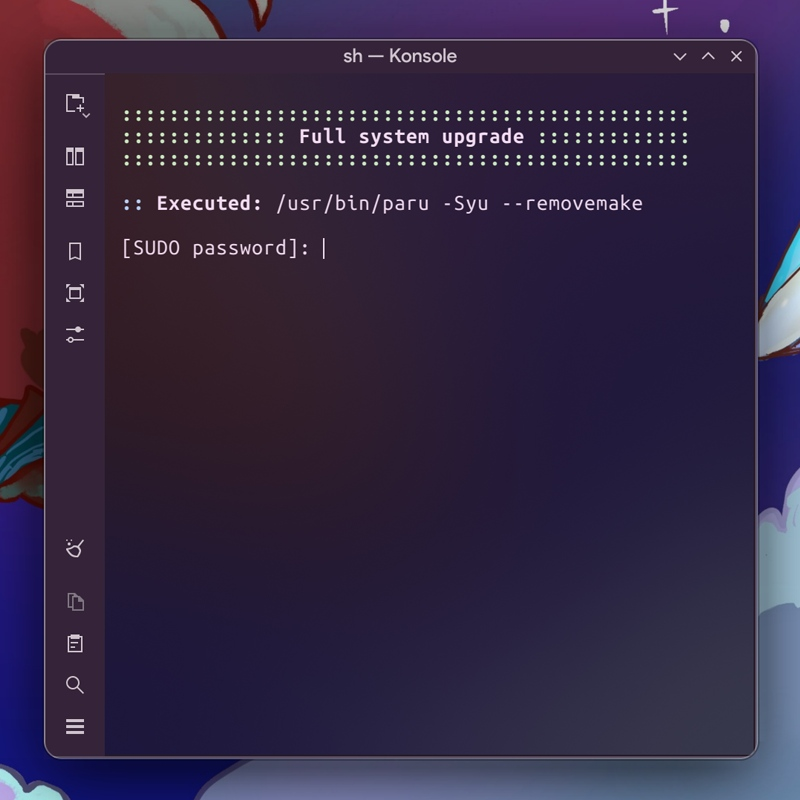
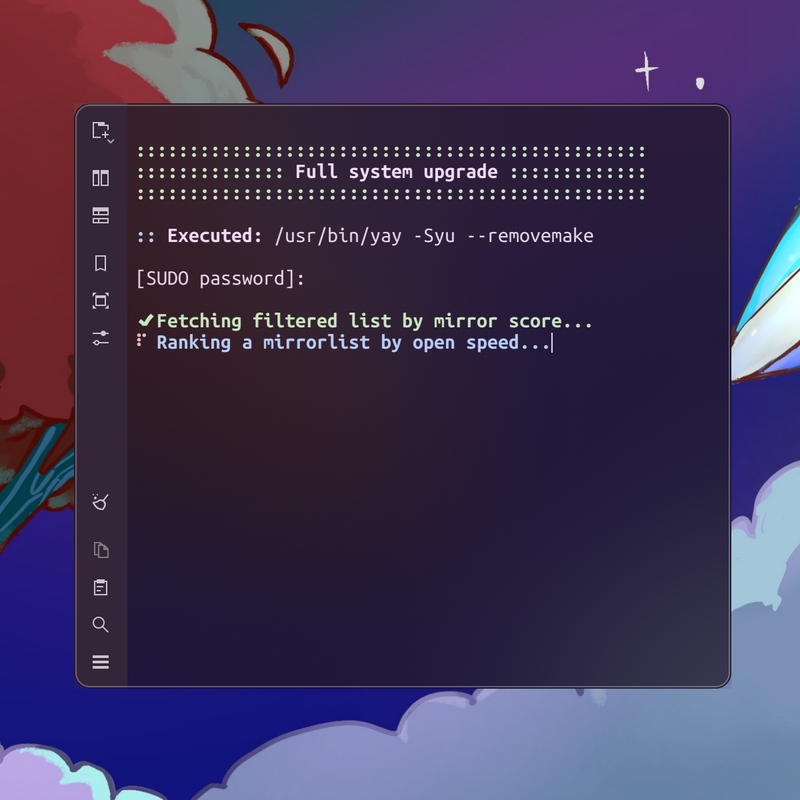
Added mirrorlist generator

diff --git a/package/contents/ui/ConfigMirrors.qml b/package/contents/ui/ConfigMirrors.qml
@@ -1,0 +1,250 @@
+import QtQuick
+import QtQuick.Layouts
+import QtQuick.Controls
+import org.kde.kirigami as Kirigami
+import org.kde.kcmutils
+
+SimpleKCM {
+    id: root
+
+    property var countryList: []
+    property string cfg_dynamicUrl: plasmoid.configuration.dynamicUrl
+    property alias cfg_mirrorCount: mirrorCount.value
+
+    function updateUrl() {
+        var params = ""
+        if (http.checked) params += "&protocol=http"
+        if (https.checked) params += "&protocol=https"
+        if (ipv4.checked) params += "&ip_version=4"
+        if (ipv6.checked) params += "&ip_version=6"
+        if (mirrorstatus.checked) params += "&use_mirror_status=on"
+
+        for (var i = 0; i < countryList.length; i++) {
+            params += "&country=" + countryList[i]
+        }
+
+        var baseUrl = "https://archlinux.org/mirrorlist/?"
+        cfg_dynamicUrl = baseUrl + params.substring(1)
+    }
+
+    Component.onCompleted: {
+        if(cfg_dynamicUrl) {
+            var urlParams = plasmoid.configuration.dynamicUrl.split("?")[1].split("&")
+
+            for (var i = 0; i < urlParams.length; i++) {
+                var param = urlParams[i]
+                if (param.includes("use_mirror_status=on")) mirrorstatus.checked = true
+                if (param.includes("protocol=http")) http.checked = true
+                if (param.includes("protocol=https")) https.checked = true
+                if (param.includes("ip_version=4")) ipv4.checked = true
+                if (param.includes("ip_version=6")) ipv6.checked = true
+            }
+        }
+    }
+
+    Kirigami.FormLayout {
+        id: page
+
+        Kirigami.Separator {
+            Kirigami.FormData.label: i18n("Pacman Mirrorlist Generator")
+            Kirigami.FormData.isSection: true
+        }
+
+        Kirigami.UrlButton {
+            horizontalAlignment: Text.AlignHCenter
+            url: "https://archlinux.org/mirrorlist"
+            text: "archlinux.org"
+            font.pointSize: Kirigami.Theme.smallFont.pointSize
+            color: Kirigami.Theme.positiveTextColor
+        }
+
+
+        Item {
+            Kirigami.FormData.isSection: true
+        }
+
+        CheckBox {
+            Kirigami.FormData.label: i18n("Protocol:")
+            id: http
+            text: "http"
+            onClicked: updateUrl()
+            
+        }
+
+        CheckBox {
+            id: https
+            text: "https"
+            onClicked: updateUrl()
+        }
+
+        Item {
+            Kirigami.FormData.isSection: true
+        }
+
+        CheckBox {
+            Kirigami.FormData.label: i18n("IP version:")
+            id: ipv4
+            text: "IPv4"
+            onClicked: updateUrl()
+        }
+
+        CheckBox {
+            id: ipv6
+            text: "IPv6"
+            onClicked: updateUrl()
+        }
+
+        Item {
+            Kirigami.FormData.isSection: true
+        }
+
+        CheckBox {
+            Kirigami.FormData.label: i18n("Mirror status:")
+            id: mirrorstatus
+            text: "Use mirror status"
+            onClicked: updateUrl()
+        }
+
+        Item {
+            Kirigami.FormData.isSection: true
+        }
+
+        SpinBox {
+            Kirigami.FormData.label: i18n("Number output:")
+            id: mirrorCount
+            from: 1
+            to: 10
+            stepSize: 1
+            value: mirrorCount
+        }
+
+        Item {
+            Kirigami.FormData.isSection: true
+        }
+
+        Label {
+            Kirigami.FormData.label: i18n("Country:")
+
+            text: {
+                var matchResult = cfg_dynamicUrl.match(/country=([A-Z]+)/g)
+                if (matchResult !== null) {
+                    var countries = matchResult.map(str => str.split("=")[1]).join(", ")
+                    return countries
+                } else {
+                    return "<font color='red'>No one selected</font>";
+                }
+            }
+        }
+
+        ScrollView {
+            height: 120
+
+            Column {
+                Repeater {
+                    id: repeater
+                    model: ListModel {
+                        ListElement { text: "Australia"; code: "AU"; checked: false }
+                        ListElement { text: "Austria"; code: "AT"; checked: false }
+                        ListElement { text: "Azerbaijan"; code: "AZ"; checked: false }
+                        ListElement { text: "Bangladesh"; code: "BD"; checked: false }
+                        ListElement { text: "Belarus"; code: "BY"; checked: false }
+                        ListElement { text: "Belgium"; code: "BE"; checked: false }
+                        ListElement { text: "Bosnia and Herzegovina"; code: "BA"; checked: false }
+                        ListElement { text: "Brazil"; code: "BR"; checked: false }
+                        ListElement { text: "Bulgaria"; code: "BG"; checked: false }
+                        ListElement { text: "Cambodia"; code: "KH"; checked: false }
+                        ListElement { text: "Canada"; code: "CA"; checked: false }
+                        ListElement { text: "Chile"; code: "CL"; checked: false }
+                        ListElement { text: "China"; code: "CN"; checked: false }
+                        ListElement { text: "Colombia"; code: "CO"; checked: false }
+                        ListElement { text: "Croatia"; code: "HR"; checked: false }
+                        ListElement { text: "Czech Republic"; code: "CZ"; checked: false }
+                        ListElement { text: "Denmark"; code: "DK"; checked: false }
+                        ListElement { text: "Ecuador"; code: "EC"; checked: false }
+                        ListElement { text: "Estonia"; code: "EE"; checked: false }
+                        ListElement { text: "Finland"; code: "FI"; checked: false }
+                        ListElement { text: "France"; code: "FR"; checked: false }
+                        ListElement { text: "Georgia"; code: "GE"; checked: false }
+                        ListElement { text: "Germany"; code: "DE"; checked: false }
+                        ListElement { text: "Greece"; code: "GR"; checked: false }
+                        ListElement { text: "Hong Kong"; code: "HK"; checked: false }
+                        ListElement { text: "Hungary"; code: "HU"; checked: false }
+                        ListElement { text: "Iceland"; code: "IS"; checked: false }
+                        ListElement { text: "India"; code: "IN"; checked: false }
+                        ListElement { text: "Indonesia"; code: "ID"; checked: false }
+                        ListElement { text: "Iran"; code: "IR"; checked: false }
+                        ListElement { text: "Israel"; code: "IL"; checked: false }
+                        ListElement { text: "Italy"; code: "IT"; checked: false }
+                        ListElement { text: "Japan"; code: "JP"; checked: false }
+                        ListElement { text: "Kazakhstan"; code: "KZ"; checked: false }
+                        ListElement { text: "Kenya"; code: "KE"; checked: false }
+                        ListElement { text: "Latvia"; code: "LV"; checked: false }
+                        ListElement { text: "Lithuania"; code: "LT"; checked: false }
+                        ListElement { text: "Luxembourg"; code: "LU"; checked: false }
+                        ListElement { text: "Mauritius"; code: "MU"; checked: false }
+                        ListElement { text: "Mexico"; code: "MX"; checked: false }
+                        ListElement { text: "Moldova"; code: "MD"; checked: false }
+                        ListElement { text: "Monaco"; code: "MC"; checked: false }
+                        ListElement { text: "Netherlands"; code: "NL"; checked: false }
+                        ListElement { text: "New Caledonia"; code: "NC"; checked: false }
+                        ListElement { text: "New Zealand"; code: "NZ"; checked: false }
+                        ListElement { text: "North Macedonia"; code: "MK"; checked: false }
+                        ListElement { text: "Norway"; code: "NO"; checked: false }
+                        ListElement { text: "Paraguay"; code: "PY"; checked: false }
+                        ListElement { text: "Poland"; code: "PL"; checked: false }
+                        ListElement { text: "Portugal"; code: "PT"; checked: false }
+                        ListElement { text: "Romania"; code: "RO"; checked: false }
+                        ListElement { text: "Russia"; code: "RU"; checked: false }
+                        ListElement { text: "Réunion"; code: "RE"; checked: false }
+                        ListElement { text: "Serbia"; code: "RS"; checked: false }
+                        ListElement { text: "Singapore"; code: "SG"; checked: false }
+                        ListElement { text: "Slovakia"; code: "SK"; checked: false }
+                        ListElement { text: "Slovenia"; code: "SI"; checked: false }
+                        ListElement { text: "South Africa"; code: "ZA"; checked: false }
+                        ListElement { text: "South Korea"; code: "KR"; checked: false }
+                        ListElement { text: "Spain"; code: "ES"; checked: false }
+                        ListElement { text: "Sweden"; code: "SE"; checked: false }
+                        ListElement { text: "Switzerland"; code: "CH"; checked: false }
+                        ListElement { text: "Taiwan"; code: "TW"; checked: false }
+                        ListElement { text: "Thailand"; code: "TH"; checked: false }
+                        ListElement { text: "Turkey"; code: "TR"; checked: false }
+                        ListElement { text: "Ukraine"; code: "UA"; checked: false }
+                        ListElement { text: "United Kingdom"; code: "GB"; checked: false }
+                        ListElement { text: "United States"; code: "US"; checked: false }
+                        ListElement { text: "Uzbekistan"; code: "UZ"; checked: false }
+                        ListElement { text: "Vietnam"; code: "VN"; checked: false }
+                    }
+
+                    delegate: CheckBox {
+                        text: model.text
+                        checked: model.checked
+
+                        onClicked: {
+                            model.checked = checked
+                            checked ? countryList.push(model.code) : countryList.splice(countryList.indexOf(model.code), 1)
+                            updateUrl()
+                        }
+
+                        Component.onCompleted: {
+                            if (cfg_dynamicUrl) {
+                                var urlParams = cfg_dynamicUrl
+                                var urlParams = urlParams.split("?")[1].split("&")
+
+                                for (var i = 0; i < urlParams.length; i++) {
+                                    var param = urlParams[i]
+                                    if (param.includes("country=")) {
+                                        var country = decodeURIComponent(param.split("=")[1])
+                                        if (model.code === country) {
+                                            model.checked = true
+                                            break
+                                        }
+                                    }
+                                }
+                            }
+                        }
+                    }
+                }
+            }
+        }
+    }
+}

diff --git a/package/contents/tools/tools.js b/package/contents/tools/tools.js
@@ -15,8 +15,8 @@ function catchError(code, err) {
 
 
 function runScript() {
-    const command = cfg.dir + "/contents/tools/tools.sh copy"
-    sh.exec(command, (cmd, stdout, stderr, exitCode) => {
+    const script = `${cfg.script} copy`
+    sh.exec(script, (cmd, stdout, stderr, exitCode) => {
         if (catchError(exitCode, stderr)) return
         checkDependencies()
     })
@@ -89,7 +89,8 @@ function defineCommands() {
     const trap = "trap '' SIGINT"
     const terminalArg = { "gnome-terminal": " --", "terminator": " -x" }
     const terminalCmd = cfg.terminal + (terminalArg[cfg.terminal.split("/").pop()] || " -e")
-    cmd.upgrade = `${terminalCmd} sh -c "${trap}; ${print(init)}; ${executed}; ${arch}${flatpak}; ${print(done)}; read"`
+    const mirrorlist = `sudo ${cfg.script} mirrorlist_generator ${cfg.mirrors} ${cfg.mirrorCount} '${cfg.dynamicUrl}'`
+    cmd.upgrade = `${terminalCmd} sh -c "${trap}; ${print(init)}; ${executed}; ${mirrorlist}; ${arch}${flatpak}; ${print(done)}; read"`
 }
 
 

diff --git a/package/contents/ui/ConfigGeneral.qml b/package/contents/ui/ConfigGeneral.qml
@@ -24,6 +24,7 @@ SimpleKCM {
     property string cfg_wrapper: plasmoid.configuration.wrapper
 
     property alias cfg_wrapperUpgrade: wrapperUpgrade.checked
+    property alias cfg_mirrors: mirrors.checked
     property alias cfg_upgradeFlags: upgradeFlags.checked
     property alias cfg_upgradeFlagsText: upgradeFlagsText.text
     property string cfg_terminal: plasmoid.configuration.terminal
@@ -201,6 +202,13 @@ SimpleKCM {
             id: wrapperUpgrade
             text: i18n("Upgrade using wrapper")
             enabled: terminals && wrappers && cfg_wrapper
+            visible: pkg.pacman
+        }
+
+        QQC2.CheckBox {
+            id: mirrors
+            text: i18n("Refresh mirrorlist")
+            enabled: pkg.checkupdates
             visible: pkg.pacman
         }
 

diff --git a/package/contents/ui/FullRepresentation.qml b/package/contents/ui/FullRepresentation.qml
@@ -162,7 +162,7 @@ Item {
     Loader {
         anchors.centerIn: parent
         width: parent.width - (Kirigami.Units.gridUnit * 4)
-        enabled: !busy && !error && count === 0 && Object.keys(listModel).length === 0
+        enabled: !busy && !error && count === 0
         visible: enabled
         asynchronous: true
         sourceComponent: PlasmaExtras.PlaceholderMessage {

diff --git a/package/contents/config/config.qml b/package/contents/config/config.qml
@@ -13,6 +13,12 @@ ConfigModel {
     }
 
     ConfigCategory {
+         name: i18n("Mirrors")
+         icon: "ksmserver"
+         source: "ConfigMirrors.qml"
+    }
+
+    ConfigCategory {
          name: i18n("Appearance")
          icon: "preferences-desktop-display-color"
          source: "ConfigAppearance.qml"
